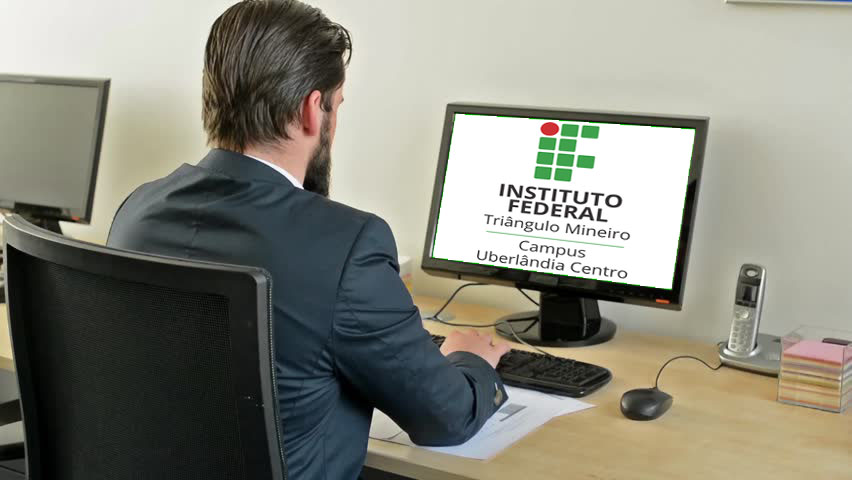
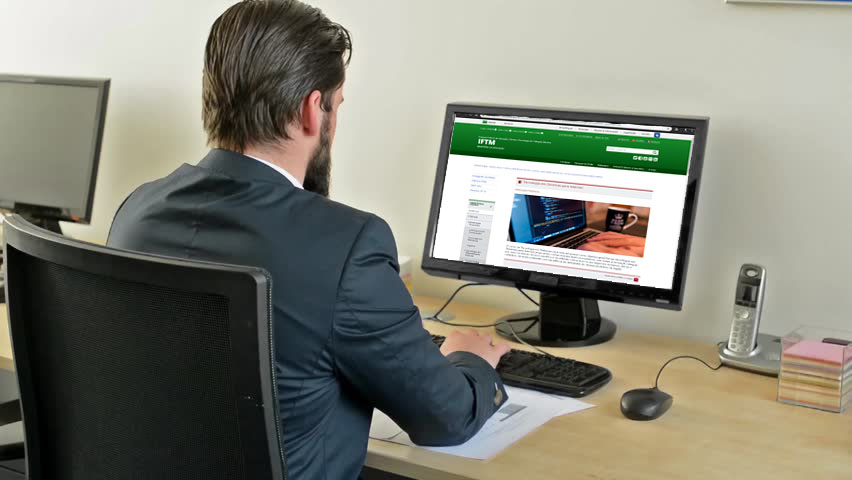
Layout principal finalizado

Changed region(s): [[0.5188, 0.2188, 0.8239, 0.5938], [0.7629, 0.5938, 0.7934, 0.6562]]

diff --git a/Ex06_menu_completo/index.html b/Ex06_menu_completo/index.html
@@ -13,30 +13,30 @@
 
     <div class="header">
     </div>
-    <h1 id="hTitulo">Exercicio - Header</h1>
+    <img src="img/iflogo.png" id="imgLogo" alt="IFTM Logo">
+    <h1 id="hTitulo">Instituto Federal do Triangulo Mineiro - Campus Uberlândia Centro</h1>
 
     <div class="clearfix">
 		<div id="dMenu">
 			<ul id="menu">
-				<li><a href="#" onmouseover="trocarImg(1,'marrom','brown')" title="Clique para voltar para a página inicial">Home <i class='fas fa-home'></i></a></li>
-				<li><a href="#" onmouseover="trocarImg(1,'marrom','brown')" title="Clique para ver o conteúdo do cruso de Lógica de Programação">Lógica de Programação <i class='fas fa-laptop-code'></i></a></li>
-				<li><a href="#" onmouseover="trocarImg(2,'roxa','purple')" title="Clique para ver o conteúdo do cruso de Inglês Instrumental">Inglês Instrumental <i class='far fa-file-word'></i></a></li>
-				<li><a href="#" onmouseover="trocarImg(3,'laranja','orange')" title="Clique para ver o conteúdo do cruso de Fundamentos de Web Design 1">Fundamentos de Web Design 1 <i class='far fa-file-code'></i></a></li>
-				<li><a href="#" onmouseover="trocarImg(4,'verde','green')" title="Clique para ver o conteúdo do cruso de Metodologia Científica">Metodologia Científica <i class='fas fa-search'></i></a></li>
-				<li><a href="#" onmouseover="trocarImg(5,'azul','blue')" title="Clique para ver o conteúdo do cruso de Sistemas Operacionais">Sistemas Operacionais <i class='far fas fa-desktop'></i></a></li>
+				<li><a href="#" onmouseover="trocarImg('HO','marrom','brown')" title="Clique para voltar para a página inicial">Home <i class='fas fa-home'></i></a></li>
+				<li><a href="#" onmouseover="trocarImg('LP','marrom','brown')" title="Clique para ver o conteúdo do cruso de Lógica de Programação">Lógica de Programação <i class='fas fa-laptop-code'></i></a></li>
+				<li><a href="#" onmouseover="trocarImg('II','roxa','purple')" title="Clique para ver o conteúdo do cruso de Inglês Instrumental">Inglês Instrumental <i class='far fa-file-word'></i></a></li>
+				<li><a href="#" onmouseover="trocarImg('FWD1','laranja','orange')" title="Clique para ver o conteúdo do cruso de Fundamentos de Web Design 1">Fundamentos de Web Design 1 <i class='far fa-file-code'></i></a></li>
+				<li><a href="#" onmouseover="trocarImg('MC','verde','green')" title="Clique para ver o conteúdo do cruso de Metodologia Científica">Metodologia Científica <i class='fas fa-search'></i></a></li>
+				<li><a href="#" onmouseover="trocarImg('SO','azul','blue')" title="Clique para ver o conteúdo do cruso de Sistemas Operacionais">Sistemas Operacionais <i class='far fas fa-desktop'></i></a></li>
 			</ul>
 		</div>
 		<div id="dImagem">
-			<img src="img/beardpc.jpg" id="imagem" alt="CavanhaMan" align="center">
-		</div>
-		<div id="dLegenda">
-			<p id="legenda">Sistemas para Internet</p>
+			<img src="img/beardpc_HO.jpg" id="imgCurso" alt="CavanhaMan">
 		</div>
     </div>
 
     <div class="footer">
-    <p>Footer Text</p>
     </div>
+    <div id="dLegenda">
+            <h1 id="legenda">Sistemas para Internet</h1>
+        </div>
 
 </body>
 </html>

diff --git a/Ex06_menu_completo/css/estilos.css b/Ex06_menu_completo/css/estilos.css
@@ -34,12 +34,12 @@ li :hover{
     float:left;
     position: relative;
     height: 600px;
-    /*border: 1px solid black; */
+    /*border: 1px solid black;*/
 }
 #dMenu {width: 330px;}
 #dImagem {width: 900px;}
-#imagem{
-    /*codigo para centralizar horizontal e horizontalmente:*/
+#imgCurso{
+    /*codigo para centralizar horizontal e verticalmente:*/
     margin: 0;
     position: absolute;
     top: 50%;
@@ -81,11 +81,29 @@ li :hover{
 }
 #hTitulo {
     position: absolute;
-    top: 10px;
-    left: 50%;
-    transform: translate(-50%, -50%);
+    top: 2px;
+    left: 80px;
     color: white;
     text-shadow: 2px 2px 4px black;
 }
+#imgLogo {
+    position: absolute;
+    top: 10px;
+    left: 10px;
+    width: 60px;
+}
+#legenda {
+    color: white;
+    text-shadow: 2px 2px 4px black;
+    /*codigo para centralizar horizontalmente:*/
+    margin: 0;
+    position: absolute;
+    bottom: 10px;
+    left: 50%;
+    transform: translate(-50%);
+
+}
+
+
 
 

diff --git a/Ex06_menu_completo/js/funcoes.js b/Ex06_menu_completo/js/funcoes.js
@@ -1,7 +1,7 @@
 //Rodrigo Cavanhaman
 
 function trocarImg(nImg,novaLegenda,corLegenda){
-    document.getElementById("imgStar").src="img/star_"+nImg+".png";
+    document.getElementById("imgCurso").src="img/beardpc_"+nImg+".jpg";
     document.getElementById("legenda").innerHTML="Estrela " + novaLegenda;
     document.getElementById("legenda").style.color=corLegenda;
 }
